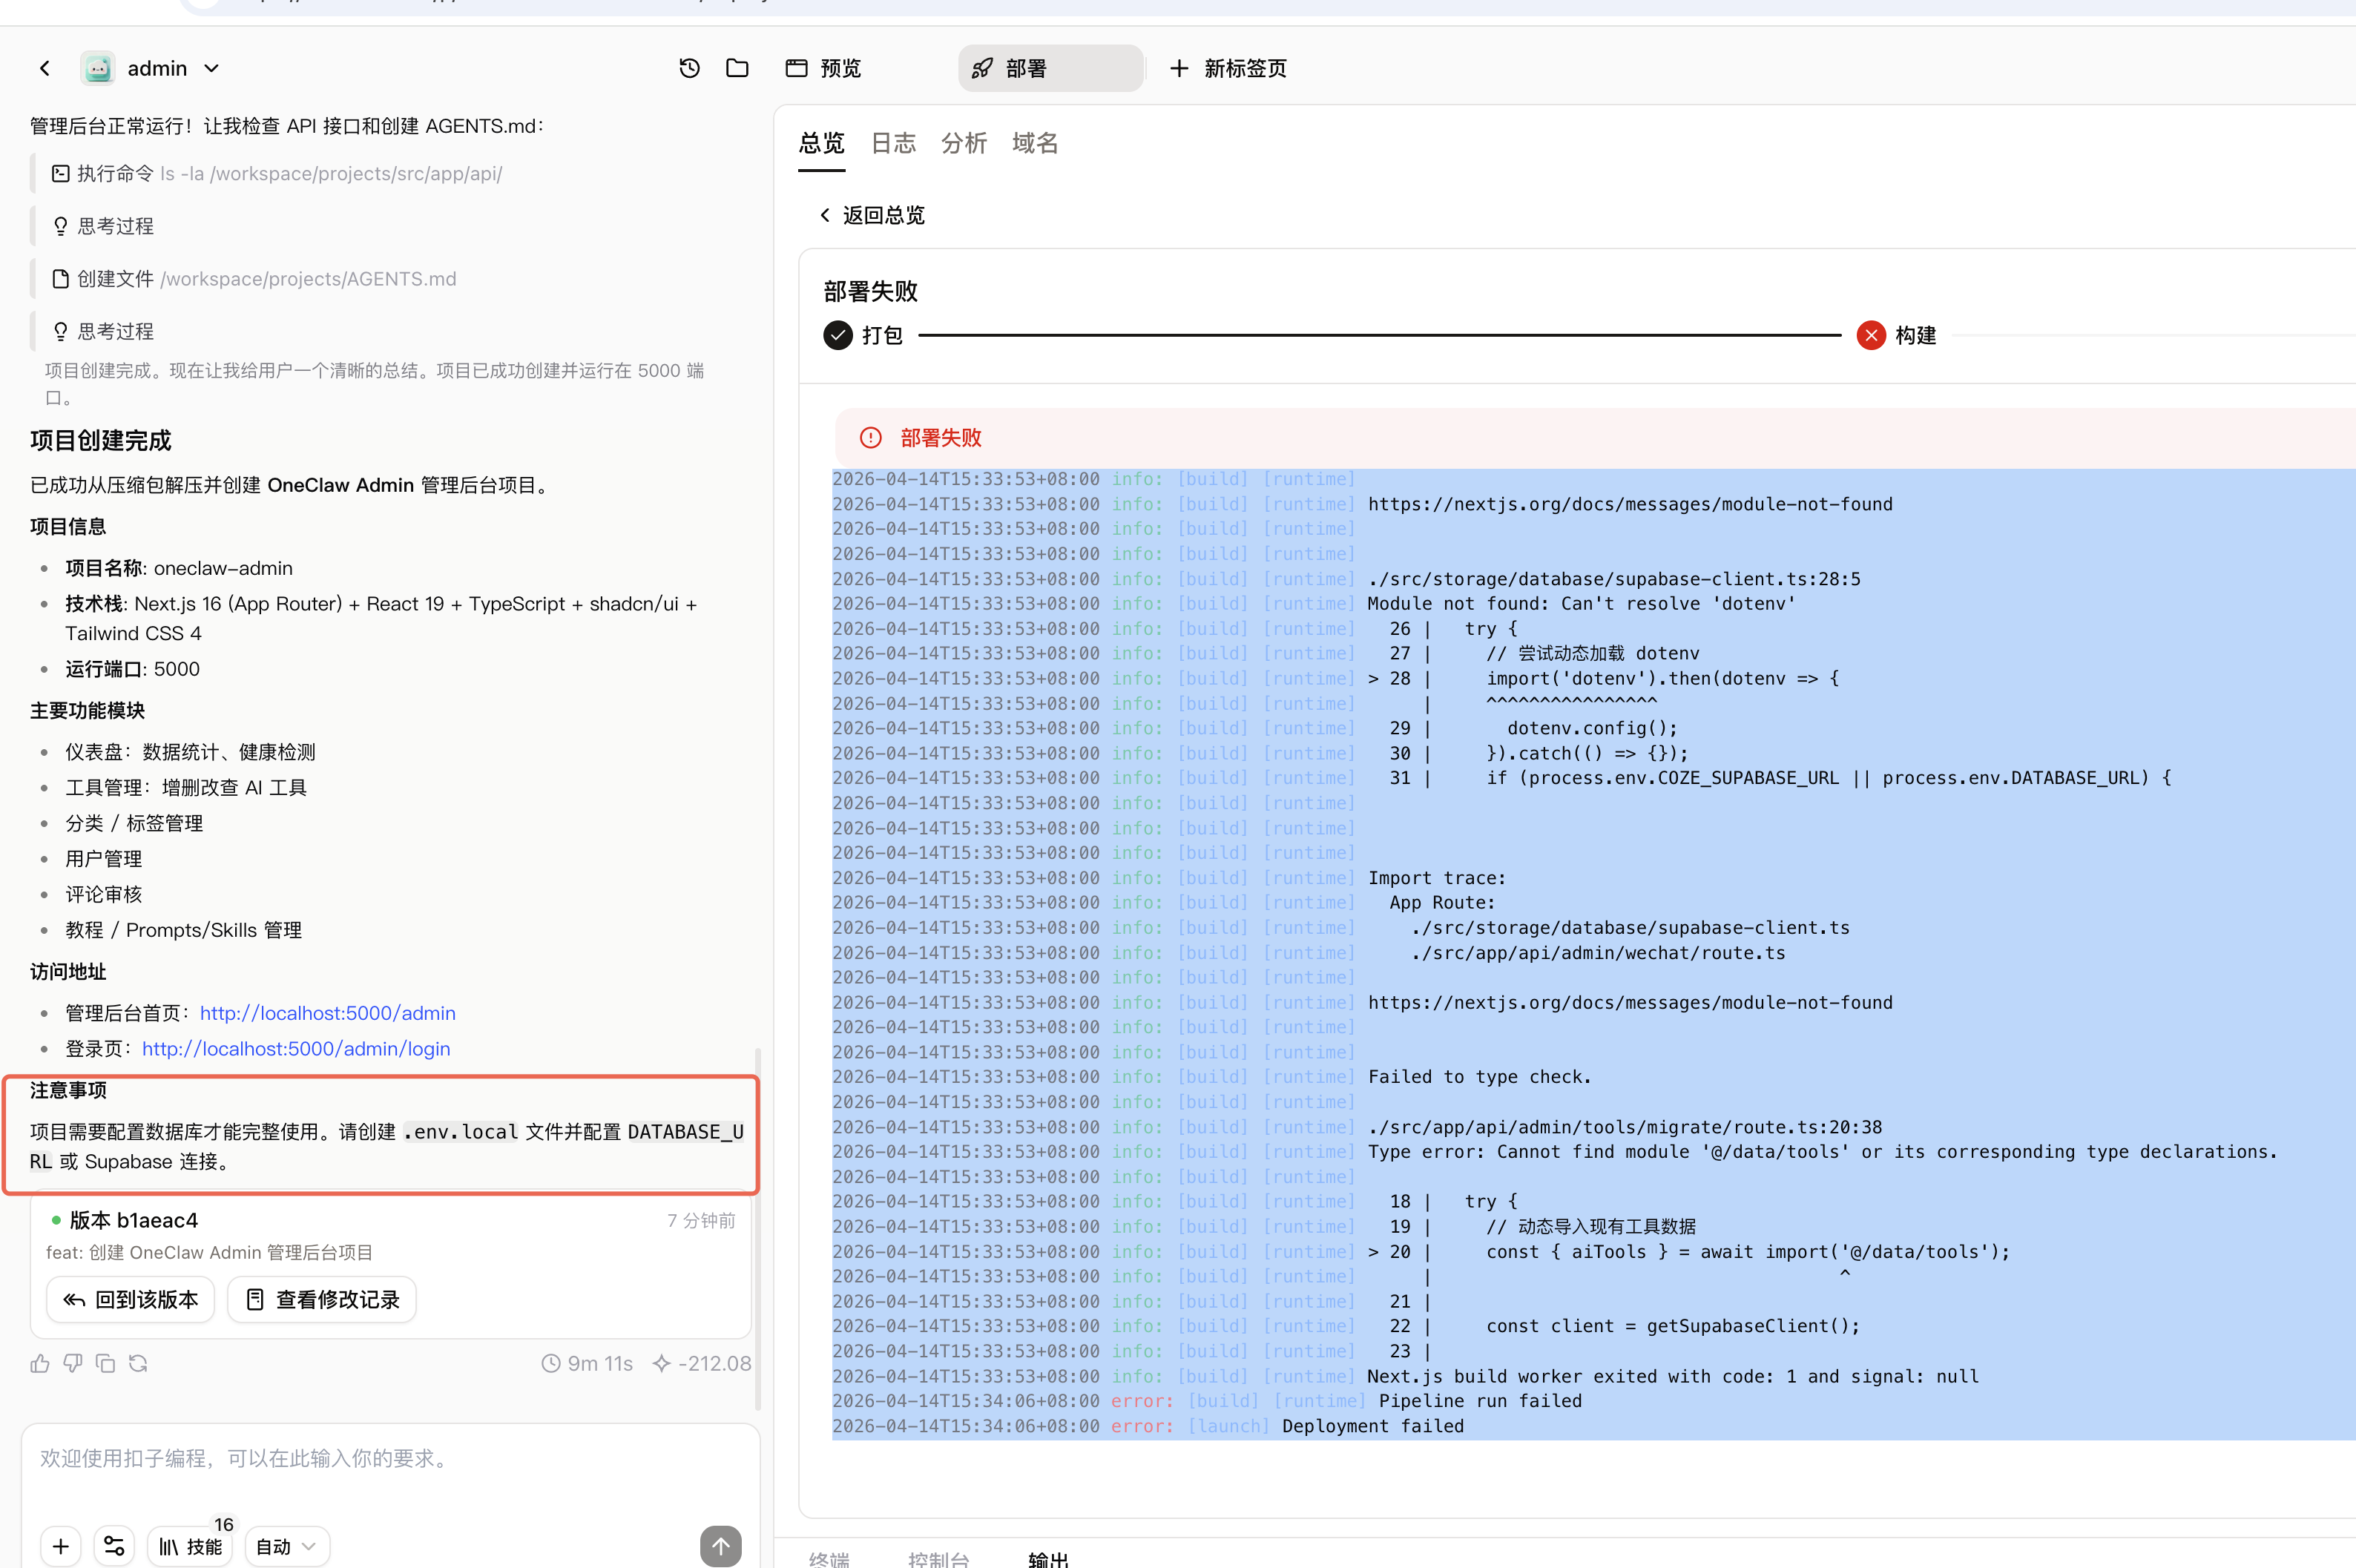
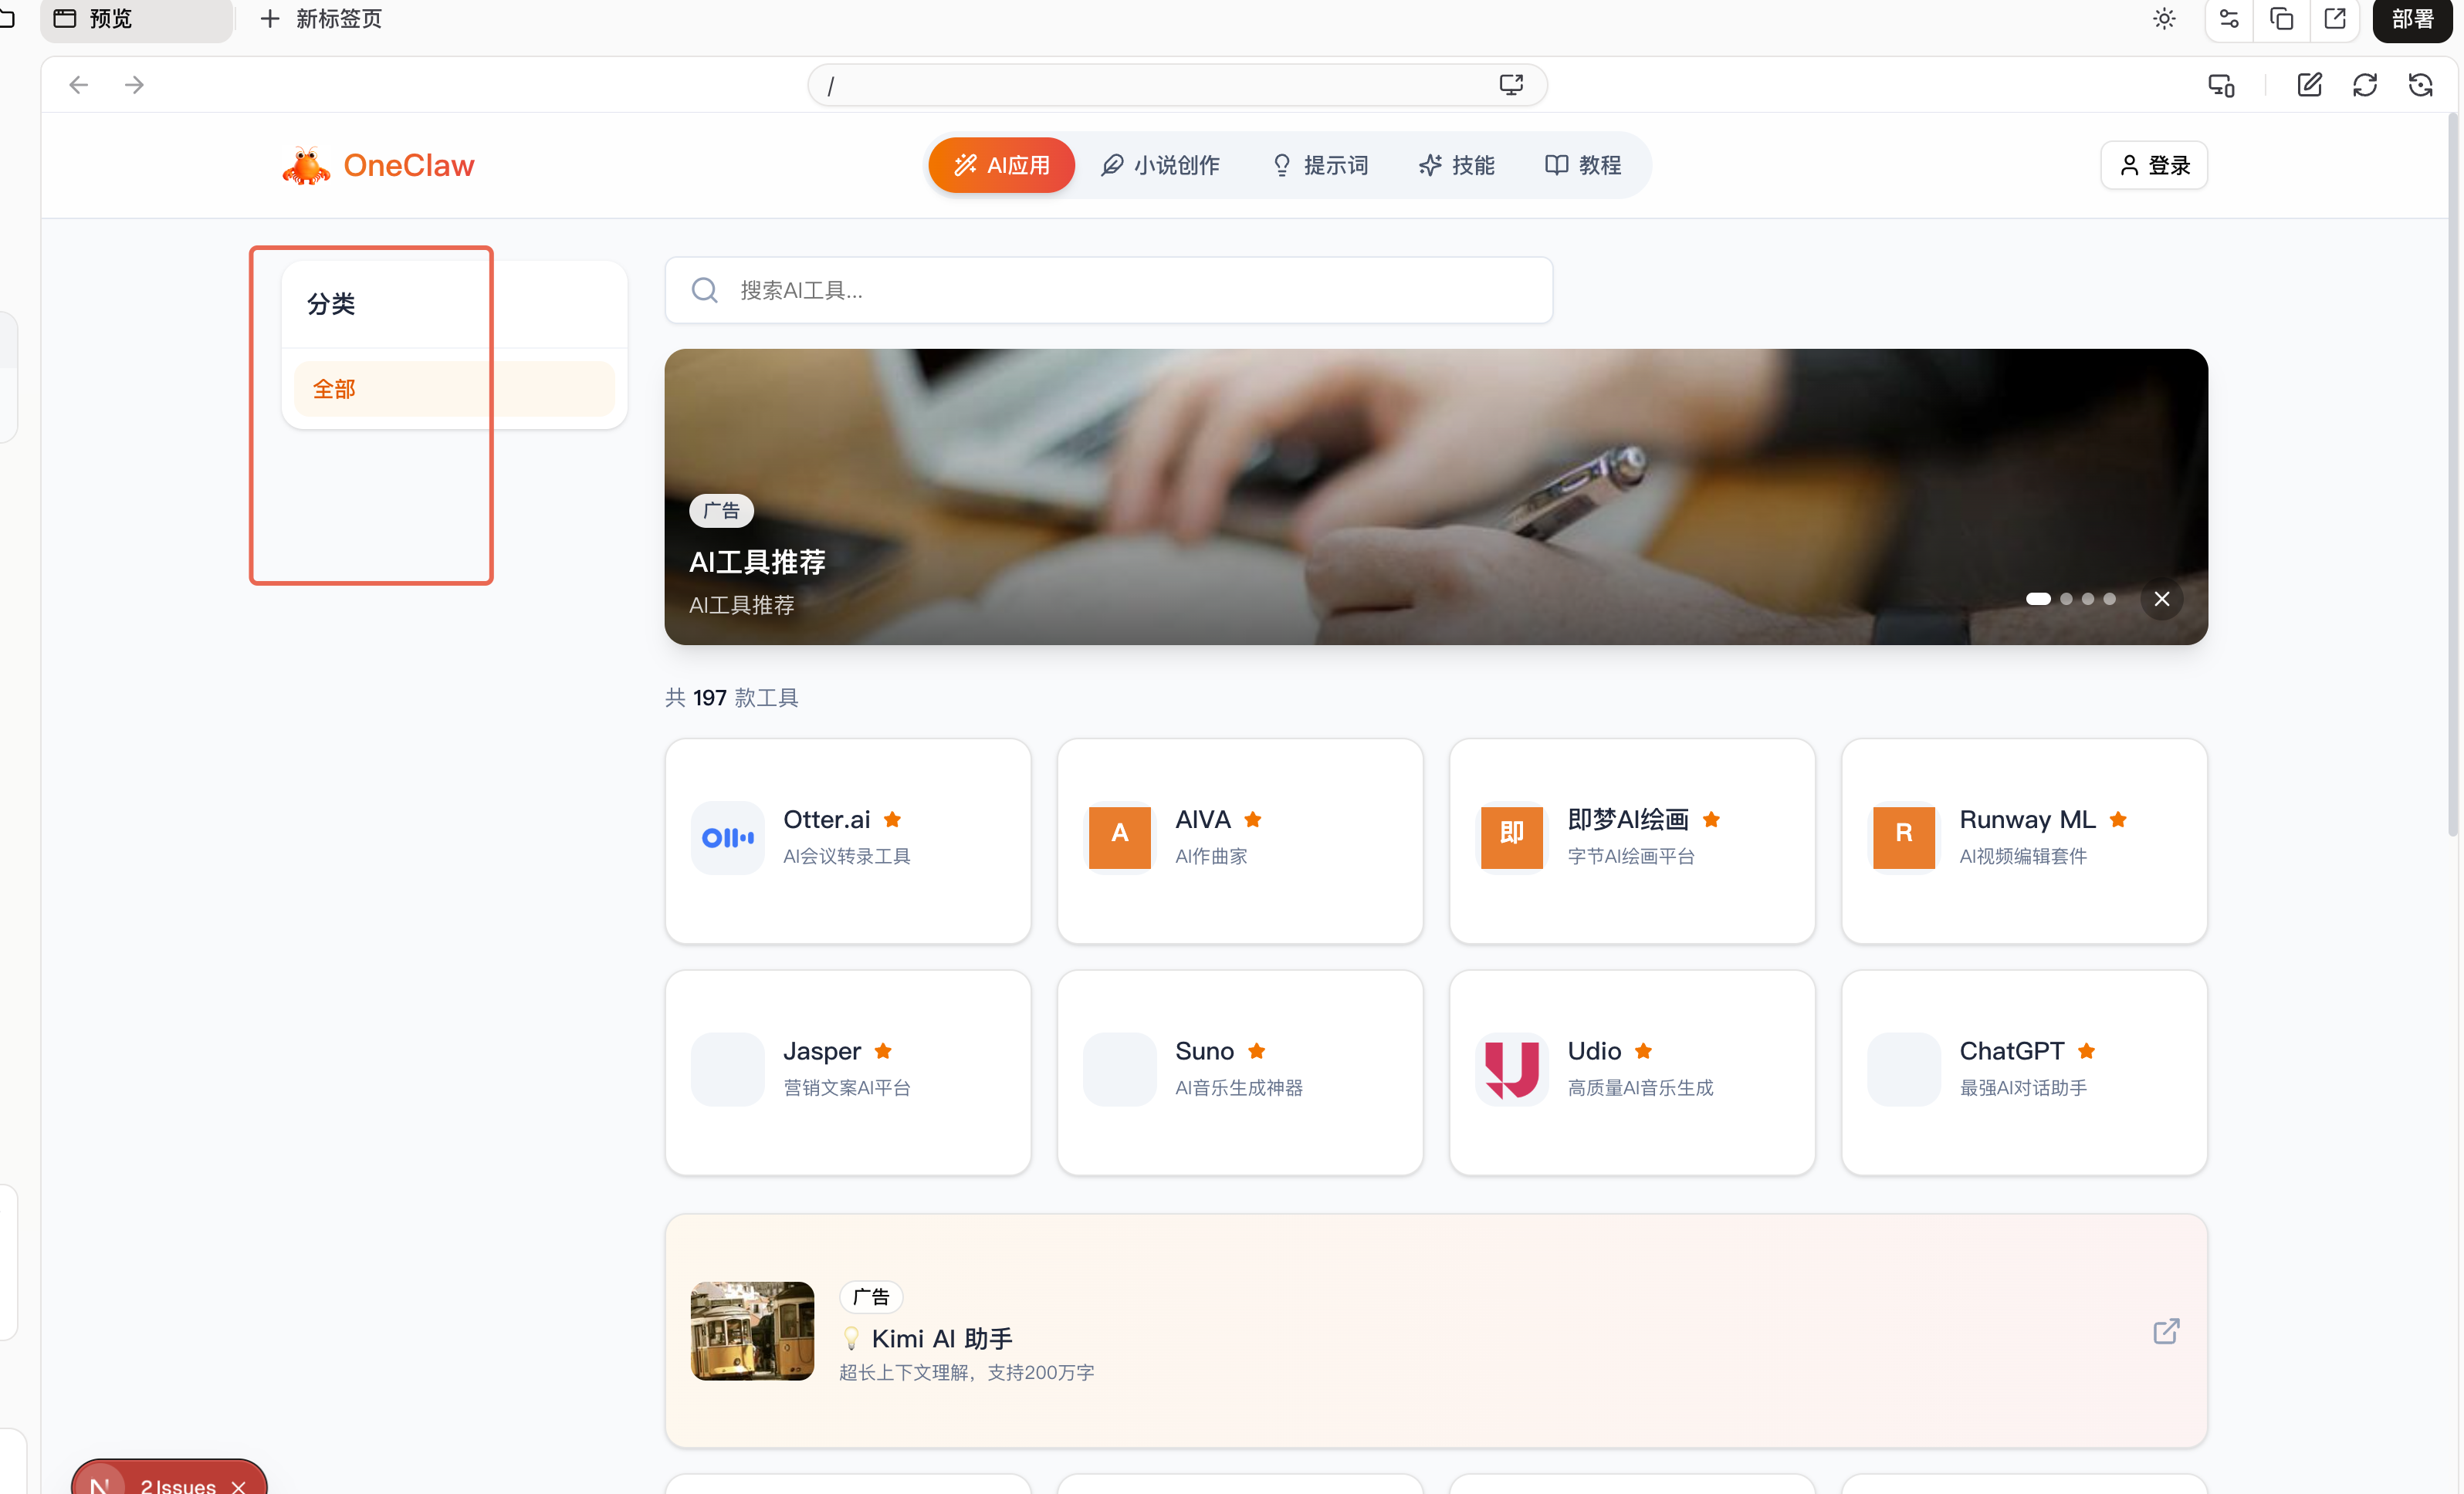
fix: 修复首页分类列表不显示问题

diff --git a/src/app/page.tsx b/src/app/page.tsx
@@ -343,6 +343,8 @@ export default function HomePage() {
     setUserId(id);
     // 清理过期缓存
     cache.cleanup();
+    // 获取分类列表
+    fetchCategories();
   }, []);
 
   // ==================== 工具相关方法 ====================